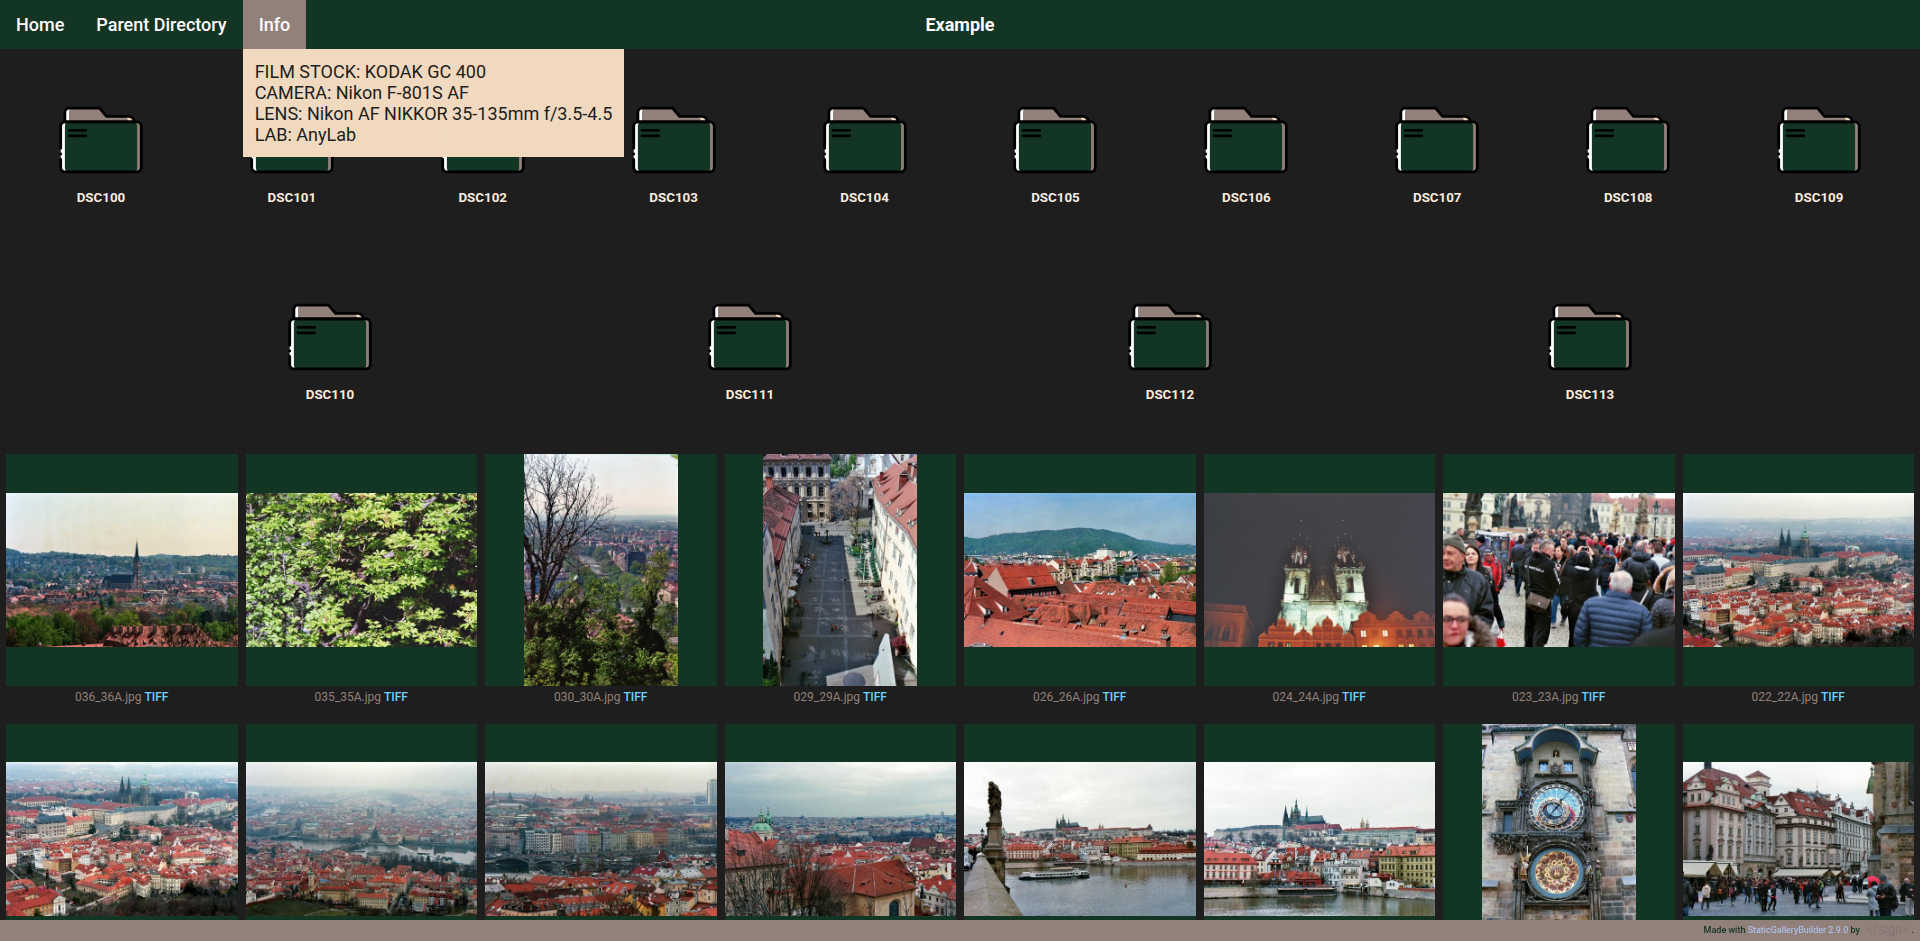
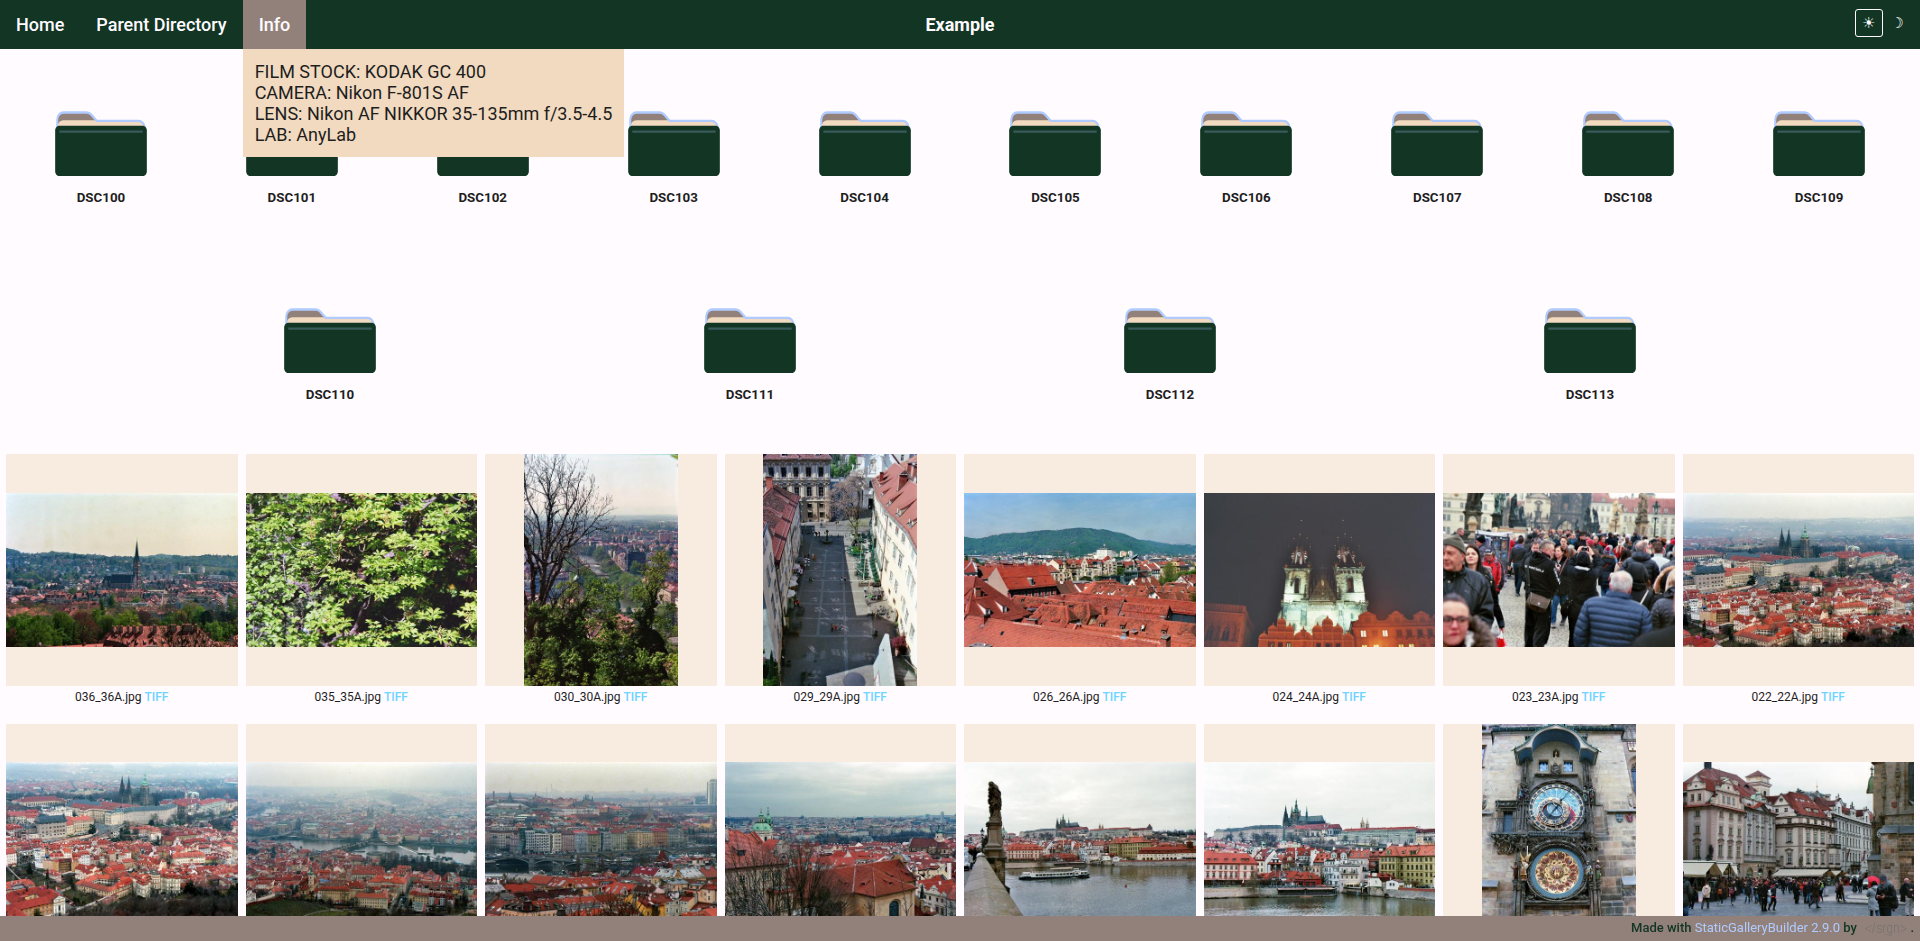
added dark variants

diff --git a/phthalo_blue-dark.css b/phthalo_blue-dark.css
@@ -1,14 +1,14 @@
 @import url("https://fonts.googleapis.com/css2?family=Roboto:wght@300;400;500;700&display=swap");
 
 * {
-  --color1: #123524;
-  --color2: #92817a;
-  --color3: #f1dabf;
-  --color4: #afcbff;
-  --bcolor1: #fffbff;
-  --bcolor2: #6cd4ff;
-  --bcolor3: #1e1e1e;
-  --bcolor4: #f8ebdf;
+  --color1: #000f89;
+  --color2: #7f7979;
+  --color3: #c1bdb3;
+  --color4: #6883ba;
+  --bcolor1: #eef0f2;
+  --bcolor2: #afbbf2;
+  --bcolor3: #000423;
+  --bcolor4: #e0e5fa;
 }
 
 .navbar {
@@ -52,7 +52,7 @@
 
 .folders a {
   font-weight: 600;
-  color: var(--bcolor3);
+  color: var(--bcolor4);
   text-decoration: none;
   font-family: "Roboto", sans-serif;
 }
@@ -89,7 +89,7 @@
 }
 
 .column img {
-  background-color: var(--bcolor4);
+  background-color: var(--color1);
 }
 
 #totop:hover {
@@ -151,8 +151,8 @@
 }
 
 body {
-  color: var(--bcolor3);
-  background-color: var(--bcolor1);
+  color: var(--color2);
+  background-color: var(--bcolor3);
   font-family: "Roboto", sans-serif;
   font-optical-sizing: auto;
   font-weight: 400;

diff --git a/phthalo_green-dark.css b/phthalo_green-dark.css
@@ -52,7 +52,7 @@
 
 .folders a {
   font-weight: 600;
-  color: var(--bcolor3);
+  color: var(--bcolor4);
   text-decoration: none;
   font-family: "Roboto", sans-serif;
 }
@@ -89,7 +89,7 @@
 }
 
 .column img {
-  background-color: var(--bcolor4);
+  background-color: var(--color1);
 }
 
 #totop:hover {
@@ -151,8 +151,8 @@
 }
 
 body {
-  color: var(--bcolor3);
-  background-color: var(--bcolor1);
+  color: var(--color2);
+  background-color: var(--bcolor3);
   font-family: "Roboto", sans-serif;
   font-optical-sizing: auto;
   font-weight: 400;
